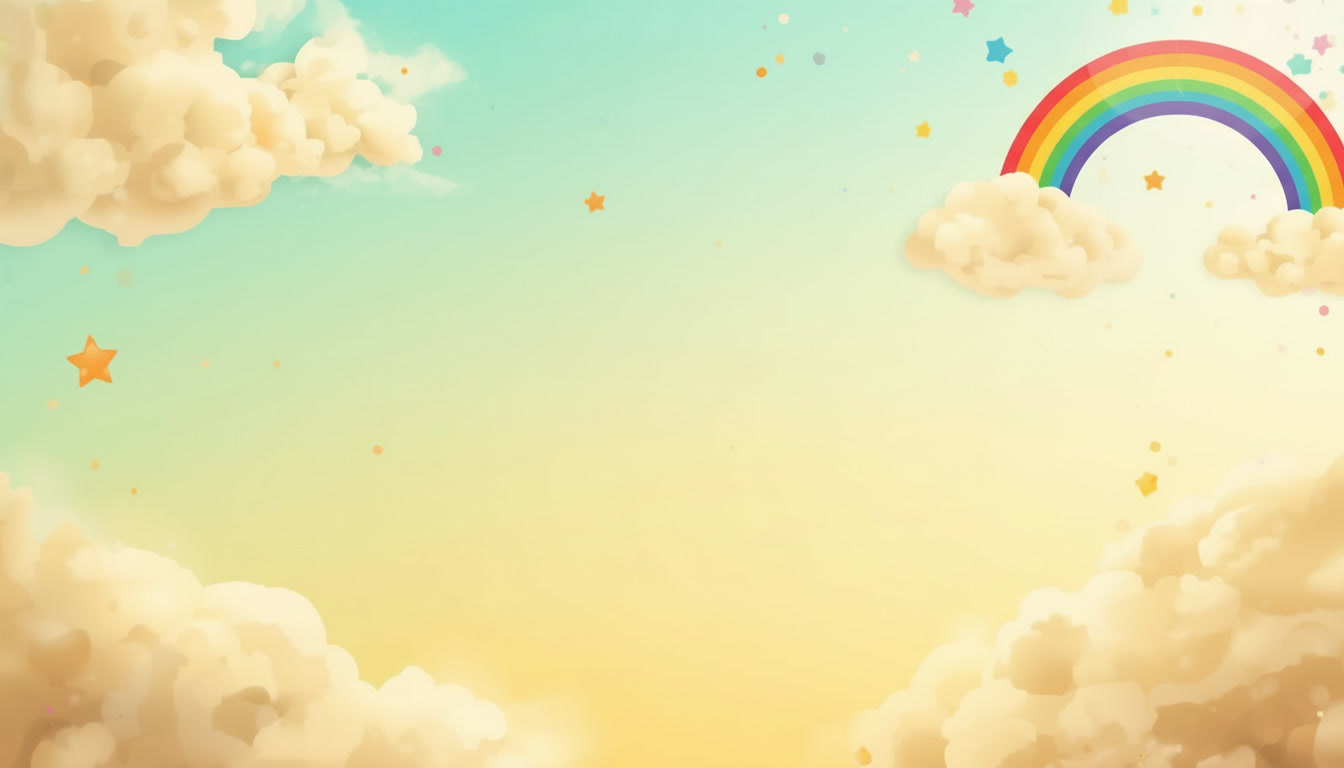
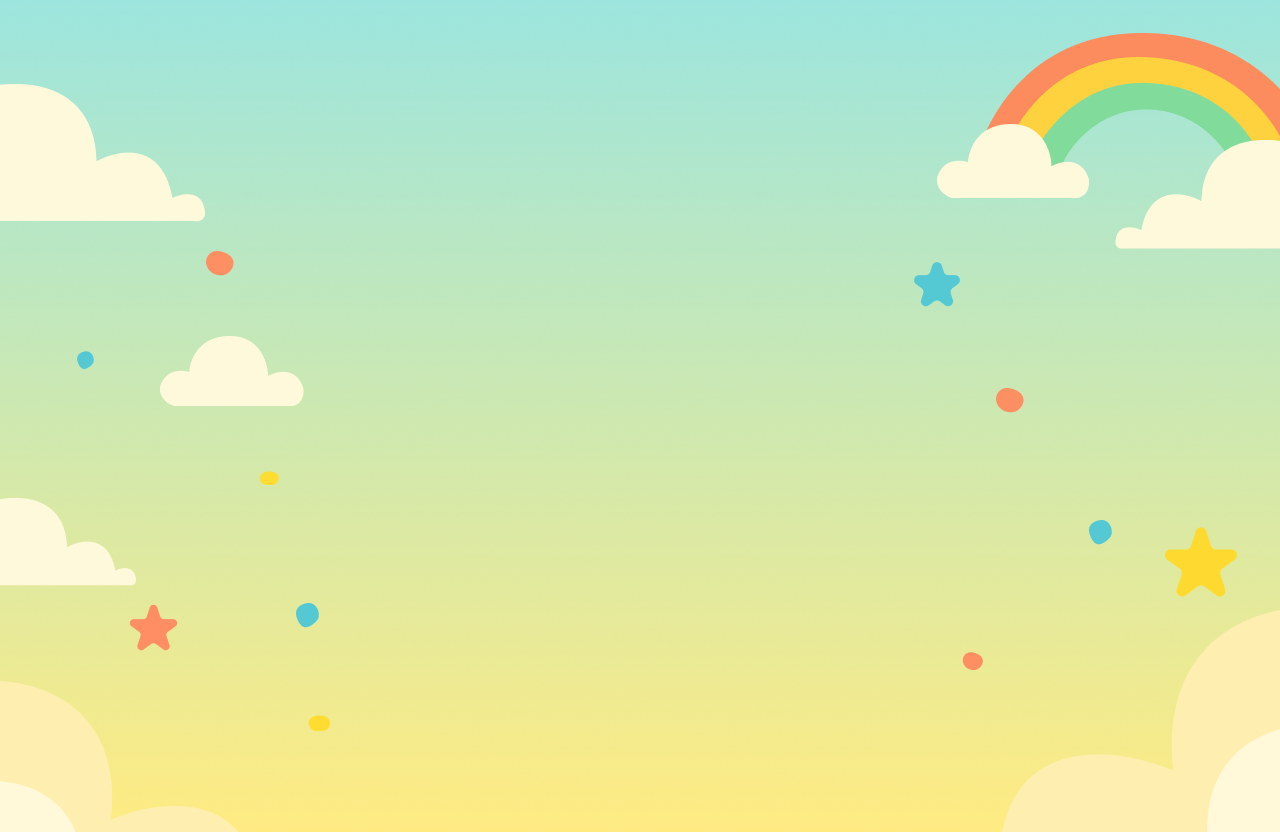
ai

diff --git a/src/containers/tebak-gerakan/index.tsx b/src/containers/tebak-gerakan/index.tsx
@@ -239,7 +239,7 @@ export default function TebakGerakanPage() {
       if (landmarks.length === 0) return undefined;
       try {
         const response = await fetch(
-          'https://aiskripsibisindo-production-e734.up.railway.app',
+          'https://aiskripsibisindo-production-e734.up.railway.app/predict_landmarks',
 
           {
             method: 'POST',
